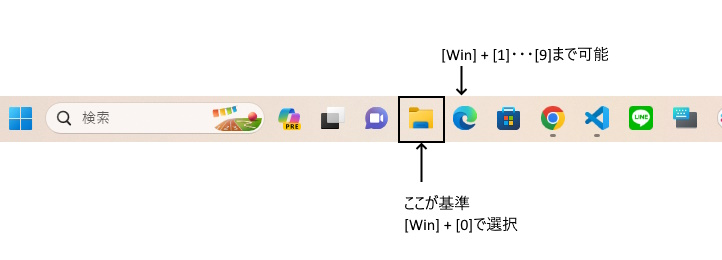
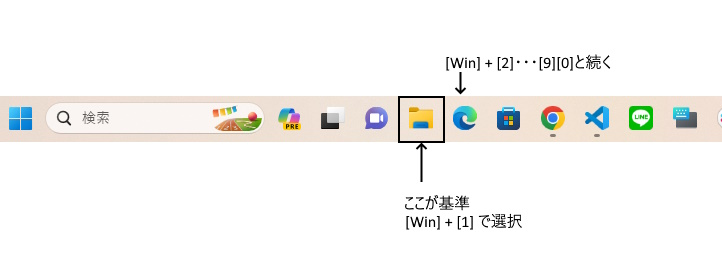
修正

Changed region(s): [[0.6094, 0.1846, 0.8532, 0.3692], [0.5485, 0.8, 0.7313, 0.8923]]

diff --git a/shortcutkey.html b/shortcutkey.html
@@ -19,7 +19,7 @@
     <main>
       <article id="Windows11">
         <h2>Windows11</h2>
-        <section>
+        <section id="select-app">
           <h3>
             <code class="shortcut">[Win] + [0]～[9]</code><br />
             タスクバーのアプリを左から順に選択
@@ -29,6 +29,7 @@
             alt="ツールバーの選択の仕方"
             class="img-exp"
           />
+          <p>エクスプローラーの位置が基準になっている</p>
         </section>
       </article>
     </main>
